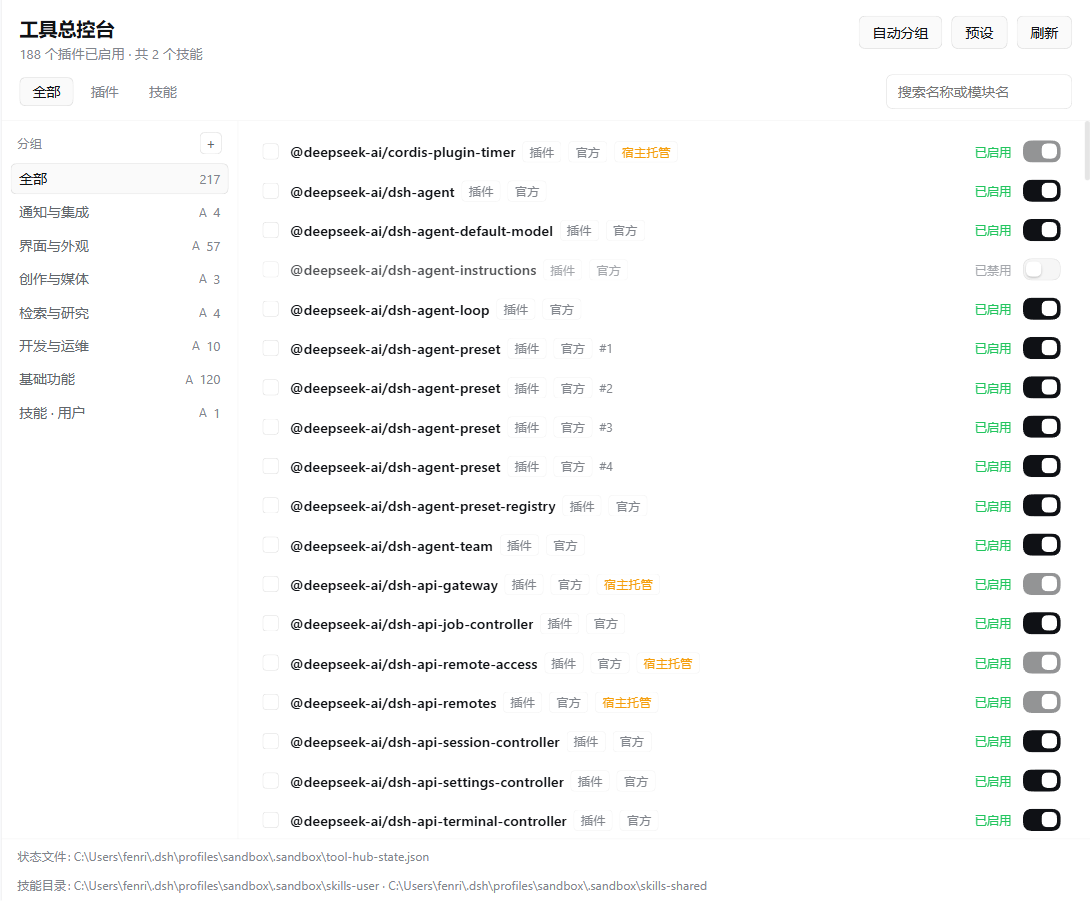
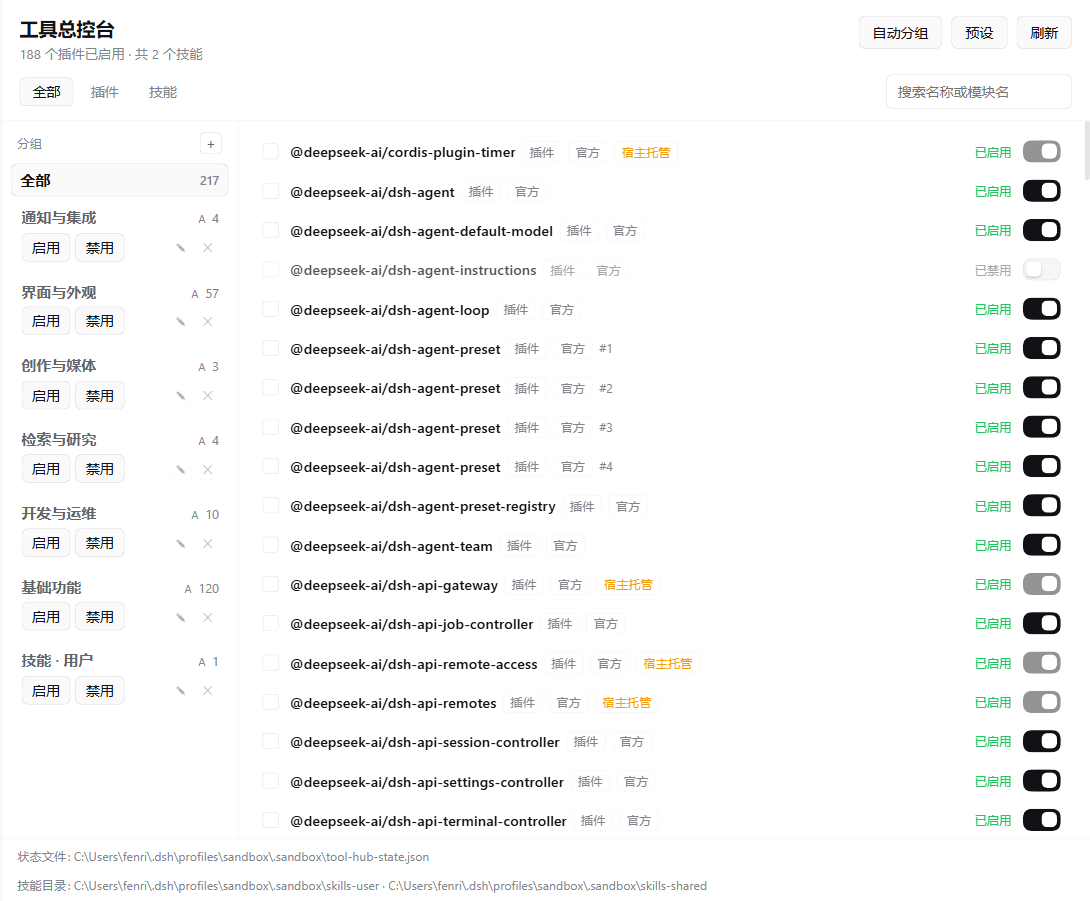
0.3.1: put visible enable/disable buttons on each group, and ship a real detail document

Changed region(s): [[0.0, 0.1865, 0.0936, 0.5283], [0.0, 0.5594, 0.0936, 0.7769], [0.1872, 0.404, 0.2183, 0.4351]]

diff --git a/client/client.js b/client/client.js
@@ -833,14 +833,15 @@ window.__ModuleLoader__.load({
                 alignItems: "center",
                 gap: 6,
                 width: "100%",
-                height: 28,
-                padding: "0 7px",
+                height: 30,
+                padding: "0 8px",
                 marginBottom: 2,
-                borderRadius: 7,
+                borderRadius: 8,
                 border: `1px solid ${active ? T.border : "transparent"}`,
                 background: active ? T.card : "transparent",
                 color: active ? T.text : T.text2,
-                fontSize: 12.5,
+                fontSize: 13.5,
+                fontWeight: 600,
                 cursor: "pointer",
                 fontFamily: "inherit",
             };
@@ -856,63 +857,70 @@ window.__ModuleLoader__.load({
 
         function GroupRow({ group, t, active, onSelect, onEnable, onRename, onDelete }) {
             const [hover, setHover] = useState(false);
+            const count = group.members.length;
             return h("div", {
                 onMouseEnter: () => setHover(true),
                 onMouseLeave: () => setHover(false),
-                style: { position: "relative" },
+                style: {
+                    display: "flex",
+                    flexDirection: "column",
+                    gap: 5,
+                    marginBottom: 2,
+                    padding: "7px 8px 7px 9px",
+                    borderRadius: 8,
+                    border: `1px solid ${active === true ? T.border : "transparent"}`,
+                    background: active === true ? T.card : (hover === true ? T.cardHover : "transparent"),
+                },
             },
             h("button", {
                 type: "button",
                 onClick: onSelect,
-                style: navRowStyle(active),
-            }, h("span", { style: { flex: 1, textAlign: "left", overflow: "hidden", textOverflow: "ellipsis", whiteSpace: "nowrap" } }, group.name),
-            group.stale > 0 ? h("span", { title: fmt(t, "stale", { n: group.stale }), style: { color: T.warn, fontSize: 11 } }, "!") : null,
-            group.auto === true ? h("span", { title: "auto", style: { color: T.text3, fontSize: 10.5 } }, "A") : null,
-            h("span", { style: { color: T.text3, fontSize: 11.5 } }, `${group.members.length}`)),
-            hover === true ? h("div", {
+                title: group.name,
                 style: {
                     display: "flex",
-                    gap: 2,
-                    padding: "0 4px 4px 4px",
+                    alignItems: "baseline",
+                    gap: 6,
+                    width: "100%",
+                    padding: 0,
+                    border: "none",
+                    background: "transparent",
+                    color: active === true ? T.text : T.text2,
+                    cursor: "pointer",
+                    fontFamily: "inherit",
+                    textAlign: "left",
                 },
             },
-            h("button", {
-                type: "button",
-                title: t("toggleGroupOn"),
-                onClick: (event) => {
-                    event.stopPropagation();
-                    onEnable(true);
+            h("span", {
+                style: {
+                    flex: 1,
+                    minWidth: 0,
+                    overflow: "hidden",
+                    textOverflow: "ellipsis",
+                    whiteSpace: "nowrap",
+                    fontSize: 13.5,
+                    fontWeight: active === true ? 650 : 600,
                 },
-                style: miniButtonStyle,
-            }, "▸"),
-            h("button", {
-                type: "button",
-                title: t("toggleGroupOff"),
-                onClick: (event) => {
-                    event.stopPropagation();
-                    onEnable(false);
-                },
-                style: miniButtonStyle,
-            }, "▾"),
-            h("div", { style: { flex: 1 } }),
-            h("button", {
-                type: "button",
-                title: t("rename"),
-                onClick: (event) => {
-                    event.stopPropagation();
-                    onRename();
-                },
-                style: miniButtonStyle,
-            }, "✎"),
-            h("button", {
-                type: "button",
-                title: t("remove"),
-                onClick: (event) => {
-                    event.stopPropagation();
-                    onDelete();
-                },
-                style: miniButtonStyle,
-            }, "✕")) : null);
+            }, group.name),
+            group.stale > 0 ? h("span", { title: fmt(t, "stale", { n: group.stale }), style: { color: T.warn, fontSize: 11 } }, "!") : null,
+            group.auto === true ? h("span", { title: "auto", style: { color: T.text3, fontSize: 10 } }, "A") : null,
+            h("span", { style: { color: T.text3, fontSize: 11.5, fontWeight: 400 } }, `${count}`)),
+
+            count === 0 ? null : h("div", { style: { display: "flex", alignItems: "center", gap: 4 } },
+                h(Button, { small: true, title: t("toggleGroupOn"), onClick: () => onEnable(true) }, t("enable")),
+                h(Button, { small: true, title: t("toggleGroupOff"), onClick: () => onEnable(false) }, t("disable")),
+                h("div", { style: { flex: 1 } }),
+                h("button", {
+                    type: "button",
+                    title: t("rename"),
+                    onClick: onRename,
+                    style: { ...miniButtonStyle, opacity: hover === true ? 1 : 0.5 },
+                }, "✎"),
+                h("button", {
+                    type: "button",
+                    title: t("remove"),
+                    onClick: onDelete,
+                    style: { ...miniButtonStyle, opacity: hover === true ? 1 : 0.5 },
+                }, "✕")));
         }
 
         const miniButtonStyle = {

diff --git a/detail/en.md b/detail/en.md
@@ -1,0 +1,65 @@
+# Tool Hub
+
+One page for everything this DSH installation actually runs: every loader entry, and every skill in
+the user skill roots.
+
+It shows up twice, with the same list behind both:
+
+- the **Hub** tab at the top of the Plugins page
+- the **Tool Hub** panel in the sidebar
+
+## What a row is
+
+| Row | Where it comes from | How it switches |
+| --- | --- | --- |
+| Plugin | the host's plugin manager (`pluginManager.listPlugins()`) | writes the profile patch layer, exactly where the Plugins page writes |
+| Skill | `~/.dsh/skills`, `~/.agents/skills` | renames `SKILL.md` to `SKILL.md.disabled` (reversible) |
+
+Each row says what it is, whether it is on, and why it cannot be switched when it cannot:
+
+- **Official** — `@deepseek-ai/*` packages and the loader's own `cordis:*` entries, shipped with the client
+- **Host-managed** — the plugin manager, the timer, the tool registry and the like; not switchable from outside
+- **This plugin** — the panel itself. It refuses to switch itself off; that would be a one-click dead end
+- `#1`, `#2` — the same module mounted more than once by the loader
+
+## Groups
+
+A group holds any mix of plugins and skills. With a group selected, two explicit **Enable** /
+**Disable** buttons sit under its name and flip every member at once; groups over 20 members ask
+first.
+
+**Auto group** buckets the current inventory from a rule table: core, interface, media, research,
+dev, integrations, skills. It previews the plan before writing anything, and re-running it replaces
+only the groups it generated — hand-made groups stay as they are.
+
+## Presets
+
+A preset stores the set you have switched on. Applying one has two modes:
+
+- **Apply** — turns on what it lists and off what it does not
+- **Only switch on** — adds, never removes
+
+Changes over 10 rows ask first.
+
+## Where state lives
+
+```
+<DSH_HOME>/tool-hub/state.json     defaults to ~/.dsh/tool-hub/state.json
+```
+
+Writes are atomic (temp file + rename), so a crash mid-save cannot leave a half-written state.
+Deleting the file clears groups and presets; it does not touch plugin or skill switches.
+
+A sandbox or test profile can keep everything disposable:
+
+```
+TOOL_HUB_STATE_FILE=<dir>/tool-hub-state.json
+TOOL_HUB_SKILL_ROOTS=<dir>/skills:<dir>/skills2   # semicolon on Windows
+```
+
+## What it does not do
+
+- MCP servers are not listed yet; they are edited in their own config block and are next
+- Only user skill roots are scanned; a workspace's `.dsh/skills` belongs to that workspace, not to
+  the installation, and is not switched from here
+- No terminal UI; the panel is a Web / Desktop extension

diff --git a/detail/zh.md b/detail/zh.md
@@ -1,0 +1,58 @@
+# 工具总控台
+
+一页管住这套 DSH 安装里真正在跑的东西：每个 loader 条目、每个用户技能目录里的技能。
+
+入口有两个，看到的是同一份列表：
+
+- 「插件」页顶部的**总控台**标签
+- 侧边栏的**工具总控台**面板
+
+## 列表里有什么
+
+| 行 | 来源 | 开关方式 |
+| --- | --- | --- |
+| 插件 | 宿主的插件管理器（`pluginManager.listPlugins()`） | 写 profile 的补丁层，和「插件」页写的是同一处 |
+| 技能 | `~/.dsh/skills`、`~/.agents/skills` | `SKILL.md` 改名成 `SKILL.md.disabled`（可逆） |
+
+每行会说明它是什么、现在开没开、不能开关时为什么不能：
+
+- **官方**：`@deepseek-ai/*` 包和 loader 自己的 `cordis:*` 条目，随客户端一起装
+- **宿主托管**：插件管理器、定时器、工具注册表这类不能从外部开关的条目
+- **本插件**：这个面板自己。它不允许关掉自己，否则就没有地方再把它打开
+- `#1`、`#2`：同一个模块被 loader 挂了多次时的序号
+
+## 分组
+
+分组里可以混放插件和技能。选中一个分组后，组名下面直接给**启用 / 禁用**两个按钮，整组成员一次开关；成员超过 20 个会先问一次。
+
+「自动分组」按规则表把现有条目分成几组：基础功能、界面与外观、创作与媒体、检索与研究、开发与运维、通知与集成、技能。它会先给预览，确认后才写；重跑只替换自动生成的那几组，手工建的组不动。
+
+## 预设
+
+预设记录「当前开着的这一套」。应用预设有两种：
+
+- **应用**：打开它列出的，关掉它没列的
+- **只开启，不关闭**：只补开，不关任何东西
+
+一次要改动超过 10 项时会先确认。
+
+## 状态存在哪
+
+```
+<DSH_HOME>/tool-hub/state.json     默认 ~/.dsh/tool-hub/state.json
+```
+
+写入是原子的（临时文件 + rename），中途崩掉不会留下半个状态。删掉这个文件等于清空分组和预设，插件与技能的开关状态不受影响。
+
+沙盒或测试 profile 想完全隔离，可以设两个环境变量：
+
+```
+TOOL_HUB_STATE_FILE=<dir>/tool-hub-state.json
+TOOL_HUB_SKILL_ROOTS=<dir>/skills;<dir>/skills2   # Windows 用分号分隔
+```
+
+## 现在不做的事
+
+- MCP 服务器还没有列进来，它们在自己的配置块里编辑，是下一版要做的
+- 只扫用户级技能目录，工作区里的 `.dsh/skills` 不属于「这套安装」，不在这里开关
+- 没有终端界面，面板是 Web / Desktop 扩展

diff --git a/CHANGELOG.md b/CHANGELOG.md
@@ -1,5 +1,14 @@
 # Changelog
 
+## 0.3.1
+
+- Group rows carry explicit **Enable** / **Disable** buttons under the group name instead of
+  hover-only arrows, and the name is larger — a bulk switch nobody can find is a bulk switch that
+  does not exist.
+- The plugin detail page now shows a real document. `meta.detail` is a path, not prose: the host
+  read our sentence as a file name and answered "the plugin declares an invalid details file".
+  It now points at `detail/zh.md` / `detail/en.md`, both shipped in the package.
+
 ## 0.3.0
 
 - Every row now says where it came from: `@deepseek-ai/*` packages and the loader's own `cordis:`
